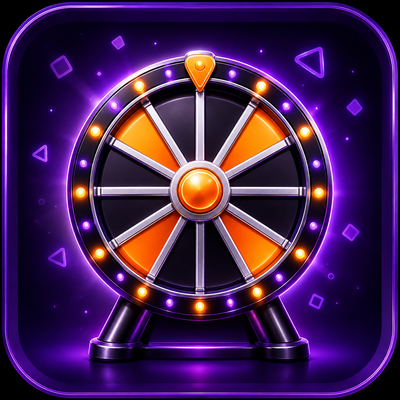
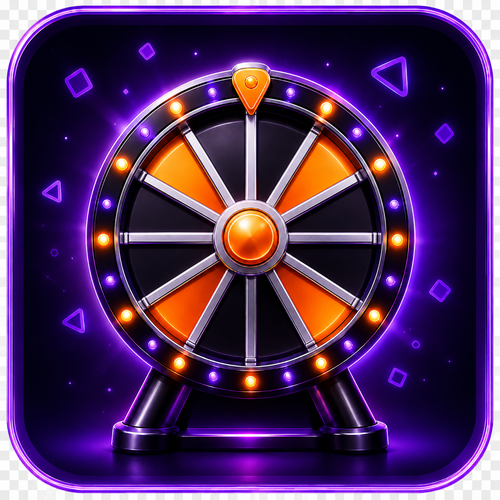
Add files via upload

diff --git a/server.js b/server.js
@@ -65,6 +65,14 @@ const PEPE_CASE_DISCOUNTED_STARS = Math.round(PEPE_CASE_PRICE_STARS * (1 - PEPE_
 const FORTUNE_CASE_PRICE_COIN = 15;
 const FORTUNE_CASE_PRICE_STARS = 1;
 
+/* ---- ICE Case: 5-case. Faqat shu case ichida topiladigan 6 ta noyob NFT
+   (yuqoridagi NFT_CATALOG'da `caseExclusive: 'ice'` bilan belgilangan).
+   Narxi 1 Stars = 100 coin nisbatiga mos qilib tanlangan (100 coin YOKI 1
+   Stars), cooldown yo'q. NARX/OG'IRLIKLAR HOZIRCHA TAXMINIY — pastdagi
+   ICE_CASE_ITEMS'dagi izohga qarang, kerak bo'lsa moslashtiring. ---- */
+const ICE_CASE_PRICE_COIN = 100;
+const ICE_CASE_PRICE_STARS = 1;
+
 /* ============================================================
    MA'LUMOTLAR BAZASI (in-memory, db.json ga davriy saqlanadi)
    ============================================================ */
@@ -102,6 +110,7 @@ function createUser(id, username) {
     nftInitialized: false, // starter (tekin) NFT'lar berilganmi
     pendingPepeCaseReward: null, // PEPE Case Stars orqali sotib olinganda, to'lov tasdiqlangач frontend shu yerdan natijani oladi
     pendingFortuneCaseReward: null, // Omad Case Stars orqali sotib olinganda, xuddi shu tarzda
+    pendingIceCaseReward: null, // ICE Case Stars orqali sotib olinganda, xuddi shu tarzda
     vip: { expiresAt: 0 }, // VIP👑: muddati tugagan vaqt (ms, epoch); 0 = hech qachon sotib olinmagan
     dailyTasks: {
       crash: 0,   // oxirgi marta "raketa o'ynash" vazifasi uchun coin olingan vaqt (ms)
@@ -712,6 +721,17 @@ const NFT_CATALOG = [
   { id: 'homemade_cake', name: 'Homemade Cake', custom_emoji_id: '5278571719395679509', sell_price: 4.61 },
   { id: 'desk_calendar', name: 'Desk Calendar', custom_emoji_id: '5278471895765782217', sell_price: 4.78 },
   { id: 'b_day_candle', name: 'B-Day Candle', custom_emoji_id: '5278743445073070036', sell_price: 4.74 },
+
+  // ---- ICE CASE — faqat shu case'dan tushadigan NFT'lar. `caseExclusive`
+  // belgisi bor NFT'lar: (1) admin panelidan "give_nft" orqali berilmaydi,
+  // (2) Raketa (crash) o'yinida yutuq sifatida hech qachon tushmaydi —
+  // faqat ICE Case ochilganda berilishi mumkin. ----
+  { id: 'ice_surge_board', name: 'Surge Board', custom_emoji_id: '5316536953959654293', sell_price: 100, caseExclusive: 'ice' },
+  { id: 'ice_vice_cream', name: 'Vice Cream', custom_emoji_id: '5355272130130911042', sell_price: 50, caseExclusive: 'ice' },
+  { id: 'ice_timeless_book', name: 'Timeless Book', custom_emoji_id: '5334749968936773400', sell_price: 80, caseExclusive: 'ice' },
+  { id: 'ice_bling_binky', name: 'Bling Binky', custom_emoji_id: '5206322453852229205', sell_price: 240, caseExclusive: 'ice' },
+  { id: 'ice_money_pot', name: 'Money Pot', custom_emoji_id: '5203937351138579883', sell_price: 90, caseExclusive: 'ice' },
+  { id: 'ice_spring_basket', name: 'Spring Basket', custom_emoji_id: '5427367528470970247', sell_price: 200, caseExclusive: 'ice' },
 ];
 const NFT_BY_ID = new Map(NFT_CATALOG.map(i => [i.id, i]));
 const CASE_ITEM_IDS = ['teddy', 'heart_gift', 'gift_box', 'rose', 'cake', 'bouquet', 'rocket', 'champagne', 'trophy', 'ring', 'diamond'];
@@ -760,6 +780,7 @@ function getNftDef(key) {
     custom_emoji_id: base.custom_emoji_id,
     sell_price: round2(base.sell_price * mult),
     tier: base.tier,
+    caseExclusive: base.caseExclusive || null,
   };
 }
 
@@ -1101,26 +1122,67 @@ function pickPepeCaseReward() {
   };
 }
 
-/* ---- Omad (Fortune) Case sovrinlari — 2 ta guruh (10 coindan past, 10-50
-   coin oralig'i) + 4 ta noyob dona (Peach, Durov's Cap, Heart Locked, Pepe).
-   Guruh ichidagi og'irlik guruh ulushiga (masalan 70) teng bo'linadi, shu
-   bilan "70% past narxlilardan birortasi tushadi" mantig'i saqlanadi. ---- */
-const FORTUNE_CASE_LOW_IDS = ['pool_float', 'lunar_snake', 'ice_cream', 'easter_egg', 'spiced_wine', 'mood_pack', 'clover_pin', 'bow_tie', 'light_sword', 'hanging_star'];
-const FORTUNE_CASE_MID_IDS = ['sakura_flower', 'top_hat', 'valentine_box', 'crystal_ball', 'love_potion', 'sky_stilettos', 'bling_binky', 'diamond_ring', 'genie_lamp', 'swiss_watch'];
-const FORTUNE_CASE_GROUP_WEIGHT = { low: 70, mid: 20 };
+/* ---- Omad (Fortune) Case sovrinlari — har bir NFT uchun aniq (narxga qarab
+   qo'lda belgilangan) foiz ehtimollik, jami = 100%. Qimmat/noyob NFT'lar
+   (Precious Peach, Durov's Cap, Heart Locked, Plush Pepe) tushish ehtimoli
+   ataylab juda past qilib qo'yilgan. ---- */
 const FORTUNE_CASE_ITEMS = [
-  ...FORTUNE_CASE_LOW_IDS.map(id => ({ baseId: id, weight: FORTUNE_CASE_GROUP_WEIGHT.low / FORTUNE_CASE_LOW_IDS.length })),
-  ...FORTUNE_CASE_MID_IDS.map(id => ({ baseId: id, weight: FORTUNE_CASE_GROUP_WEIGHT.mid / FORTUNE_CASE_MID_IDS.length })),
-  { baseId: 'precious_peach', weight: 5 },
-  { baseId: 'durovs_cap', weight: 4 },
-  { baseId: 'heart_locked', weight: 1 },
-  { baseId: 'plush_pepe', weight: 0.1 },
+  { baseId: 'pool_float', weight: 12 },        // 3.70
+  { baseId: 'lunar_snake', weight: 9.5 },       // 3.80
+  { baseId: 'ice_cream', weight: 8.5 },         // 3.90
+  { baseId: 'easter_egg', weight: 7 },          // 3.95
+  { baseId: 'spiced_wine', weight: 6 },         // 4.07
+  { baseId: 'mood_pack', weight: 5 },           // 4.40
+  { baseId: 'clover_pin', weight: 4 },          // 4.64
+  { baseId: 'bow_tie', weight: 3 },             // 4.90
+  { baseId: 'light_sword', weight: 15 },        // 6.16
+  { baseId: 'hanging_star', weight: 6 },        // 9.49
+  { baseId: 'sakura_flower', weight: 5 },       // 10.17
+  { baseId: 'top_hat', weight: 4 },             // 10.80
+  { baseId: 'valentine_box', weight: 3 },       // 11.35
+  { baseId: 'crystal_ball', weight: 2.5 },      // 12.66
+  { baseId: 'love_potion', weight: 2 },         // 14.68
+  { baseId: 'sky_stilettos', weight: 1.679 },   // 19.31
+  { baseId: 'bling_binky', weight: 2 },         // 24
+  { baseId: 'diamond_ring', weight: 1.5 },      // 29.72
+  { baseId: 'genie_lamp', weight: 1 },          // 33.59
+  { baseId: 'swiss_watch', weight: 1 },         // 49.07
+  { baseId: 'precious_peach', weight: 0.2 },    // 258.03
+  { baseId: 'durovs_cap', weight: 0.1 },        // 398.81
+  { baseId: 'heart_locked', weight: 0.02 },     // 1074.99
+  { baseId: 'plush_pepe', weight: 0.001 },      // 6834
 ];
 function pickFortuneCaseReward() {
   const totalWeight = FORTUNE_CASE_ITEMS.reduce((s, o) => s + o.weight, 0);
   let rand = Math.random() * totalWeight;
   let picked = FORTUNE_CASE_ITEMS[FORTUNE_CASE_ITEMS.length - 1];
   for (const o of FORTUNE_CASE_ITEMS) {
+    if (rand < o.weight) { picked = o; break; }
+    rand -= o.weight;
+  }
+  const item = NFT_BY_ID.get(picked.baseId);
+  return {
+    itemId: item.id, baseId: item.id, bg: null, bgLabel: null,
+    isGift: true, name: item.name, custom_emoji_id: item.custom_emoji_id, sell_price: item.sell_price, stars: item.sell_price,
+  };
+}
+
+/* ---- ICE Case sovrinlari — 6 ta case-exclusive NFT (ice_ prefiksli).
+   OG'IRLIKLAR TAXMINIY QO'YILDI (narx qancha qimmat bo'lsa, ehtimol shuncha
+   past): jami 100% ga yig'iladi. Buni ehtiyojga qarab moslang. ---- */
+const ICE_CASE_ITEMS = [
+  { baseId: 'ice_vice_cream', weight: 45 },     // 50 coin — eng arzon, eng ko'p tushadi
+  { baseId: 'ice_timeless_book', weight: 25 },  // 80 coin
+  { baseId: 'ice_money_pot', weight: 15 },      // 90 coin
+  { baseId: 'ice_surge_board', weight: 10 },    // 100 coin
+  { baseId: 'ice_spring_basket', weight: 4 },   // 200 coin
+  { baseId: 'ice_bling_binky', weight: 1 },     // 240 coin — eng qimmat, eng kam tushadi
+];
+function pickIceCaseReward() {
+  const totalWeight = ICE_CASE_ITEMS.reduce((s, o) => s + o.weight, 0);
+  let rand = Math.random() * totalWeight;
+  let picked = ICE_CASE_ITEMS[ICE_CASE_ITEMS.length - 1];
+  for (const o of ICE_CASE_ITEMS) {
     if (rand < o.weight) { picked = o; break; }
     rand -= o.weight;
   }
@@ -1515,6 +1577,113 @@ app.post('/api/fortune_case/claim_result', async (req, res) => {
   const meta = await getEmojiMeta(reward.custom_emoji_id);
   reward.is_video = meta.is_video;
   user.pendingFortuneCaseReward = null;
+  res.json({ ok: true, reward });
+});
+
+/* ============================================================
+   ICE CASE (5-case) — coin yoki Stars evaziga, cooldownsiz. Faqat shu
+   case'dan tushadigan 6 ta noyob NFT (admin bera olmaydi, raketadan ham
+   chiqmaydi — yuqoridagi `caseExclusive` tekshiruviga qarang).
+   ============================================================ */
+app.get('/api/ice_case_items', async (req, res) => {
+  const items = [];
+  for (const o of ICE_CASE_ITEMS) {
+    const item = NFT_BY_ID.get(o.baseId);
+    const meta = await getEmojiMeta(item.custom_emoji_id);
+    items.push({
+      id: item.id, baseId: item.id, name: item.name, custom_emoji_id: item.custom_emoji_id,
+      sell_price: item.sell_price, weight: o.weight, is_video: meta.is_video,
+    });
+  }
+  res.json({ ok: true, items, priceCoin: ICE_CASE_PRICE_COIN, priceStars: ICE_CASE_PRICE_STARS });
+});
+
+app.post('/api/open_ice_case', async (req, res) => {
+  const user = requireUser(req, res); if (!user) return;
+  const subscribed = await isSubscribed(user.id, MAIN_CHANNEL);
+  if (!subscribed) return res.status(403).json({ error: 'not_subscribed' });
+
+  ensureNftStarterPack(user);
+  if (Number(user.balance) < ICE_CASE_PRICE_COIN) {
+    return res.status(400).json({ error: 'INSUFFICIENT_BALANCE', required: ICE_CASE_PRICE_COIN });
+  }
+  user.balance = round2(user.balance - ICE_CASE_PRICE_COIN);
+
+  const reward = pickIceCaseReward();
+  const meta = await getEmojiMeta(reward.custom_emoji_id);
+  reward.is_video = meta.is_video;
+  grantNftToUser(user, reward.itemId);
+  user.total_won = round2((user.total_won || 0) + reward.sell_price);
+
+  res.json({ ok: true, reward, balance: user.balance });
+});
+
+/* ---- Stars evaziga: boshqa case'lar bilan bir xil oqim (invoice ->
+   bot.js webhook -> pendingIceCaseReward -> claim_result). ---- */
+app.post('/api/ice_case/create_invoice', async (req, res) => {
+  const user = requireUser(req, res); if (!user) return;
+  if (!BOT_TOKEN) return res.status(500).json({ error: 'BOT_TOKEN_MISSING' });
+  const subscribed = await isSubscribed(user.id, MAIN_CHANNEL);
+  if (!subscribed) return res.status(403).json({ error: 'not_subscribed' });
+
+  const payload = `icecase:${user.id}:${crypto.randomBytes(4).toString('hex')}`;
+  try {
+    const tgRes = await fetch(`https://api.telegram.org/bot${BOT_TOKEN}/createInvoiceLink`, {
+      method: 'POST',
+      headers: { 'Content-Type': 'application/json' },
+      body: JSON.stringify({
+        title: 'GiftFesti — ICE Case',
+        description: "ICE Case'ni ochish",
+        payload,
+        currency: 'XTR',
+        prices: [{ label: 'ICE Case', amount: ICE_CASE_PRICE_STARS }],
+      }),
+    });
+    const data = await tgRes.json();
+    if (!data.ok) return res.status(400).json({ error: data.description || 'TELEGRAM_ERROR' });
+    res.json({ ok: true, link: data.result, stars: ICE_CASE_PRICE_STARS });
+  } catch (e) {
+    console.error('ICE case invoysi yaratishda xatolik:', e.message);
+    res.status(500).json({ error: 'server_error' });
+  }
+});
+
+app.post('/api/internal_ice_case_credit', (req, res) => {
+  if (!requireInternal(req, res)) return;
+  const { payload, telegramPaymentChargeId, totalAmount } = req.body || {};
+
+  if (telegramPaymentChargeId && processedTopupCharges.has(telegramPaymentChargeId)) {
+    const m0 = /^icecase:(\d+):/.exec(String(payload || ''));
+    const existingUser = m0 ? users.get(m0[1]) : null;
+    return res.json({ ok: true, alreadyProcessed: true, reward: existingUser ? existingUser.pendingIceCaseReward : null });
+  }
+  const m = /^icecase:(\d+):/.exec(String(payload || ''));
+  if (!m) return res.status(400).json({ error: 'INVALID_PAYLOAD' });
+  const userId = m[1];
+  if (Number(totalAmount) !== ICE_CASE_PRICE_STARS) {
+    console.error(`ICE case: to'lov summasi mos kelmadi (kutilgan ${ICE_CASE_PRICE_STARS}, kelgan ${totalAmount})`);
+  }
+
+  let user = users.get(userId);
+  if (!user) { user = createUser(userId, `user${userId}`); users.set(userId, user); }
+  ensureNftStarterPack(user);
+
+  const reward = pickIceCaseReward();
+  grantNftToUser(user, reward.itemId);
+  user.total_won = round2((user.total_won || 0) + reward.sell_price);
+  user.pendingIceCaseReward = reward;
+  if (telegramPaymentChargeId) processedTopupCharges.add(telegramPaymentChargeId);
+
+  res.json({ ok: true, reward });
+});
+
+app.post('/api/ice_case/claim_result', async (req, res) => {
+  const user = requireUser(req, res); if (!user) return;
+  const reward = user.pendingIceCaseReward || null;
+  if (!reward) return res.json({ ok: true, reward: null });
+  const meta = await getEmojiMeta(reward.custom_emoji_id);
+  reward.is_video = meta.is_video;
+  user.pendingIceCaseReward = null;
   res.json({ ok: true, reward });
 });
 
@@ -2455,6 +2624,7 @@ app.post('/api/admin_action', (req, res) => {
         const key = payload.itemId && payload.itemId.includes(NFT_KEY_SEP) ? payload.itemId : makeNftKey(payload.itemId, bg);
         const item = getNftDef(key);
         if (!item) throw new Error('ITEM_NOT_FOUND');
+        if (item.caseExclusive) throw new Error('CASE_EXCLUSIVE_ITEM'); // admin bera olmaydi — faqat o'z case'idan tushadi
         const amount = Math.max(1, parseInt(payload.amount) || 1);
         for (let i = 0; i < amount; i++) grantNftToUser(target, item.id);
         break;
@@ -3469,6 +3639,7 @@ function findNftMatchForValue(value) {
   let best = null;
   let bestDiff = Infinity;
   for (const item of NFT_CATALOG) {
+    if (item.caseExclusive) continue; // faqat o'ziga tegishli case'dan tushadigan NFT — raketada yutib bo'lmaydi
     for (const bg of [null, ...NFT_BG_LIST]) {
       const price = bg ? round2(item.sell_price * NFT_BG_TYPES[bg].mult) : item.sell_price;
       const tolerance = Math.max(CRASH_NFT_MATCH_MIN_TOLERANCE, price * CRASH_NFT_MATCH_RELATIVE_TOLERANCE);

diff --git a/public/index.html b/public/index.html
@@ -604,13 +604,26 @@
       radial-gradient(110px 100px at 85% 12%, rgba(60,230,140,.4), transparent 70%),
       linear-gradient(135deg,#123524,#0d211a);
   }
-  .game-card.upgrade .game-card-visual{filter:drop-shadow(0 8px 16px rgba(60,230,140,.55));}
   .game-card.wheel{
     background:
       radial-gradient(110px 100px at 85% 12%, rgba(180,110,255,.4), transparent 70%),
       linear-gradient(135deg,#2A1B3A,#180f21);
   }
-  .game-card.wheel .game-card-visual{filter:drop-shadow(0 8px 16px rgba(180,110,255,.55));}
+
+  /* ---- UPGRADE / WHEEL — rasm kartaning butun yuzasini egallaydi ---- */
+  .game-card.tile.upgrade, .game-card.tile.wheel{padding:0; background:#0B0B12;}
+  .game-card.tile.upgrade .game-card-visual.gc-static,
+  .game-card.tile.wheel .game-card-visual.gc-static{
+    position:absolute; inset:0; margin:0; width:100%; height:100%;
+    transform:none; filter:none; animation:none;
+  }
+  .game-card.tile.upgrade .gc-static-img,
+  .game-card.tile.wheel .gc-static-img{width:100%; height:100%; object-fit:cover; display:block;}
+  .game-card.tile.upgrade .game-name,
+  .game-card.tile.wheel .game-name{
+    position:absolute; left:0; right:0; bottom:0; z-index:2; margin:0; width:auto;
+    padding:22px 8px 12px; background:linear-gradient(to top, rgba(0,0,0,.78), transparent);
+  }
 
   /* ---- PVP / SOLO bo'limlaridagi 2 ustunli kvadrat kartochkalar ---- */
   .tile-grid{display:grid; grid-template-columns:1fr 1fr; gap:12px; margin-bottom:12px;}
